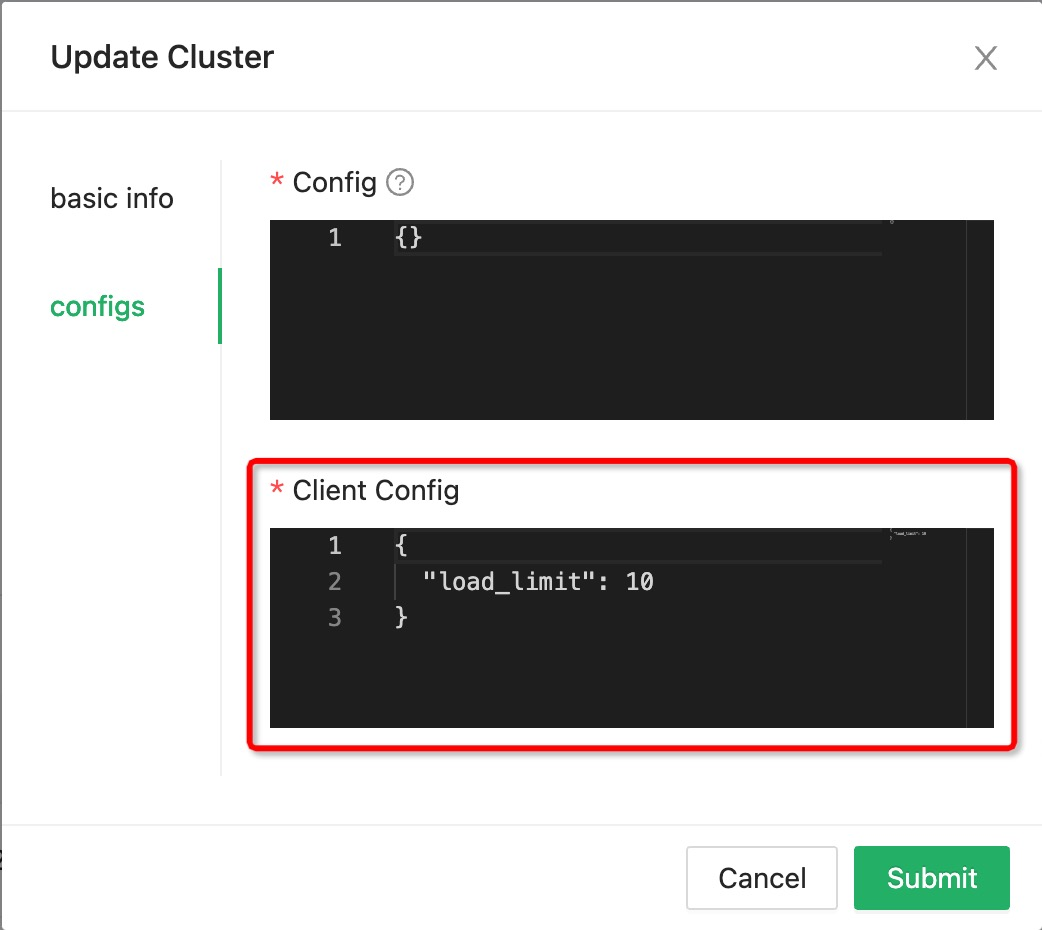
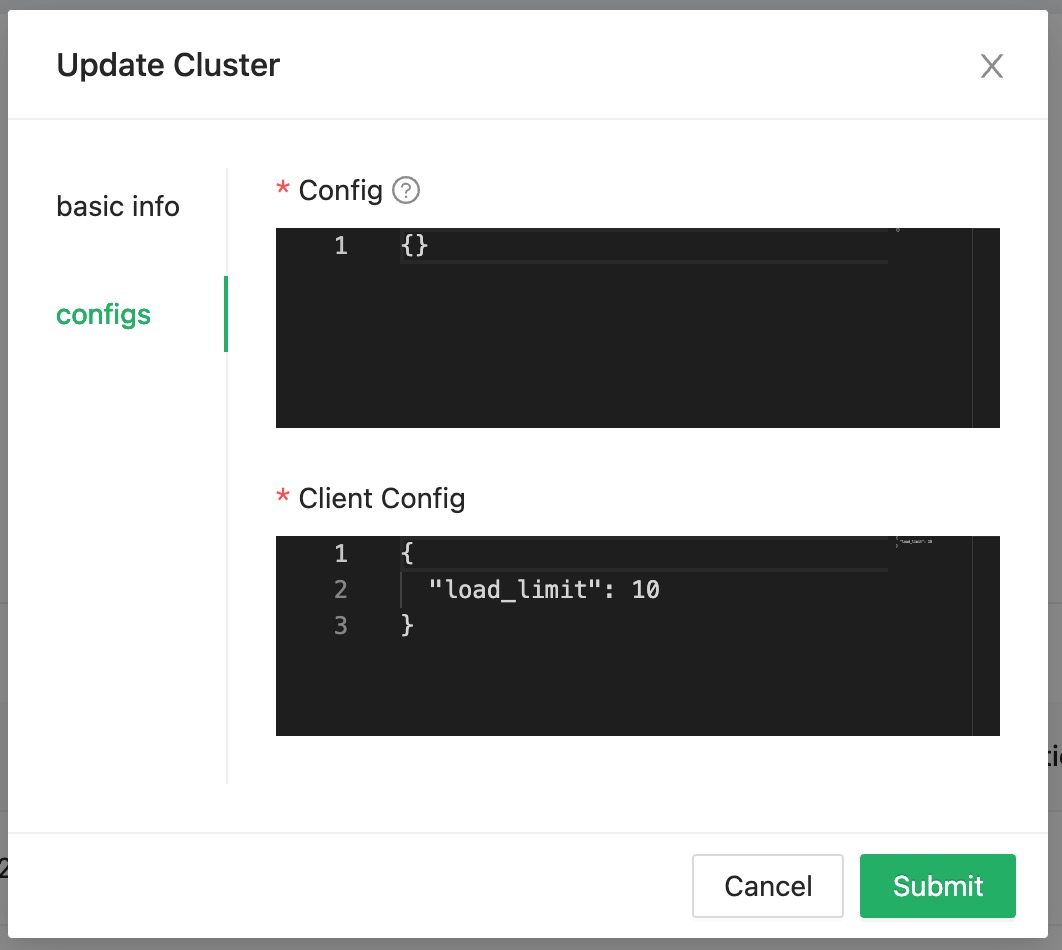
feat: image

Changed region(s): [[0.0, 0.0, 1.0, 1.0], [0.1843, 0.2806, 0.215, 0.3742], [0.3685, 0.6548, 0.3992, 0.686]]

diff --git a/docs/en/user-guide/console/preview.md b/docs/en/user-guide/console/preview.md
@@ -46,11 +46,11 @@ Default root username: `root` password: `dragonfly`.
 
 ##### Configure Scheduler Cluster
 
-![configure-scheduler-cluster][configure-scheduler-cluster]
+![configure-scheduler-cluster][configure-scheduler-cluster]{ width: 200px; height: 200px; margin: 0 auto; display: block; }
 
 ##### Configure Scheduler Cluster's Client
 
-![configure-scheduler-cluster-client][configure-scheduler-cluster-client]
+![configure-scheduler-cluster-client][configure-scheduler-cluster-client]{ width: 200px; height: 200px; margin: 0 auto; display: block; }
 
 - `load_limit`: client host can provide the maximum upload load.
 
@@ -66,7 +66,7 @@ Default root username: `root` password: `dragonfly`.
 
 ##### Configure CDN Cluster
 
-![configure-cdn-cluster][configure-cdn-cluster]
+![configure-cdn-cluster][configure-cdn-cluster]{ width: 200px; height: 200px; margin: 0 auto; display: block; }
 
 - `load_limit`: CDN host can provide the maximum upload load.
 
